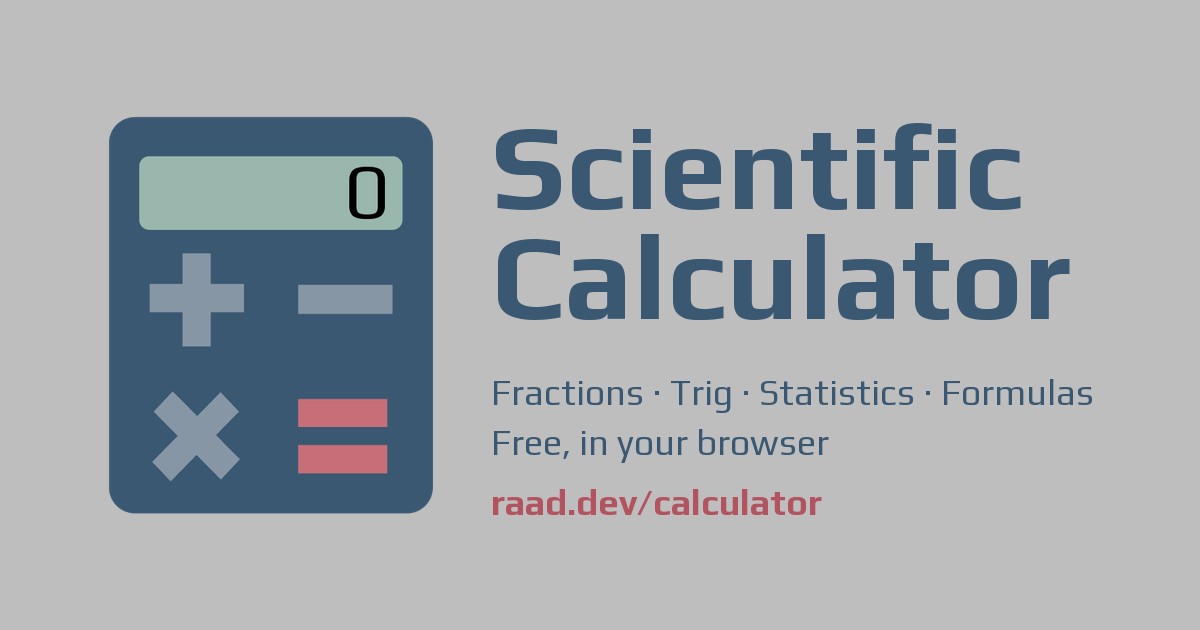
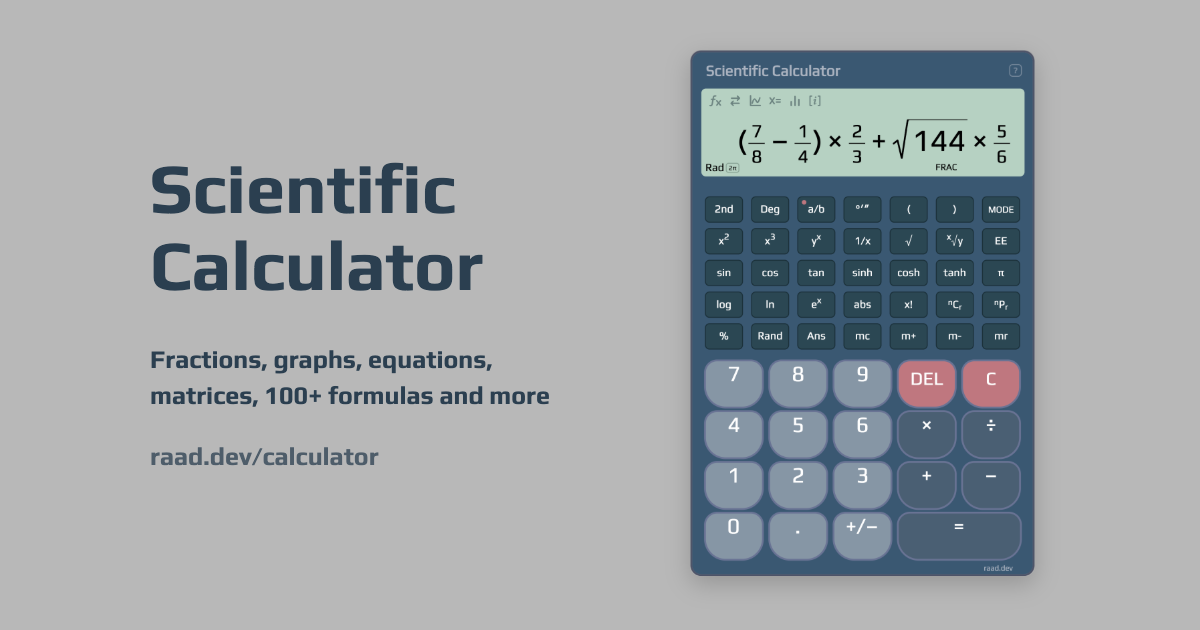
Web: new share image, and search text with every feature
The share image now shows a fraction calculation, in the gray style of
the store images. The title, descriptions, keywords and JSON-LD feature
list cover the graph, solver, matrices, finance and formulas.

diff --git a/web/index.html b/web/index.html
@@ -18,27 +18,27 @@
     <link rel="stylesheet" href="css/style.css">
     <link rel="stylesheet" href="css/options.css">
     <link rel="stylesheet" href="css/site.css">
-    <title>Scientific Calculator Online Free: Trig, Log, Fractions, Formulas</title>
-    <meta name="description" content="A free scientific calculator that works offline: fractions, trigonometry, logarithms, statistics, unit converter, formulas and constants, and a history of past calculations. Nothing leaves your browser.">
+    <title>Scientific Calculator Online Free: Fractions, Graph, Solver, Formulas</title>
+    <meta name="description" content="A free scientific calculator with real fractions, a graph, an equation solver, matrices, statistics, finance, 100+ formulas and a unit converter. Works offline, and nothing leaves your browser.">
     <meta name="robots" content="index, follow, max-image-preview:large, max-snippet:-1">
     <meta name="author" content="Raad Altaie">
-    <meta name="keywords" content="scientific calculator, online calculator, offline calculator, fraction calculator, statistics calculator, unit converter, trigonometry, logarithm, standard deviation">
+    <meta name="keywords" content="scientific calculator, online calculator, offline calculator, fraction calculator, graphing calculator, equation solver, matrix calculator, statistics calculator, loan calculator, finance calculator, unit converter, formulas, trigonometry, logarithm, standard deviation, complex numbers, hex calculator">
     <link rel="canonical" href="https://raad.dev/calculator/">
     <link rel="alternate" type="text/plain" href="https://raad.dev/calculator/llms.txt" title="Summary for AI agents">
     <meta property="og:type" content="website">
     <meta property="og:site_name" content="Scientific Calculator">
     <meta property="og:url" content="https://raad.dev/calculator/">
     <meta property="og:locale" content="en_US">
-    <meta property="og:title" content="Scientific Calculator: free, with fractions and statistics">
-    <meta property="og:description" content="A free scientific calculator that works offline: fractions, trigonometry, logarithms, statistics, unit converter, formulas and constants, and a history of past calculations. Nothing leaves your browser.">
-    <meta property="og:image" content="https://raad.dev/calculator/imgs/og-image.png">
+    <meta property="og:title" content="Scientific Calculator: free, with fractions, graph and solver">
+    <meta property="og:description" content="A free scientific calculator with real fractions, a graph, an equation solver, matrices, statistics, finance, 100+ formulas and a unit converter. Works offline, and nothing leaves your browser.">
+    <meta property="og:image" content="http://127.0.0.1:5500/web/imgs/og-image.png">
     <meta property="og:image:width" content="1200">
     <meta property="og:image:height" content="630">
-    <meta property="og:image:alt" content="Scientific Calculator icon">
+    <meta property="og:image:alt" content="Scientific Calculator with a fraction calculation">
     <meta name="twitter:card" content="summary_large_image">
-    <meta name="twitter:title" content="Scientific Calculator: free, with fractions and statistics">
-    <meta name="twitter:description" content="A free scientific calculator that works offline: fractions, trigonometry, logarithms, statistics, unit converter, formulas and constants, and a history of past calculations. Nothing leaves your browser.">
-    <meta name="twitter:image" content="https://raad.dev/calculator/imgs/og-image.png">
+    <meta name="twitter:title" content="Scientific Calculator: free, with fractions, graph and solver">
+    <meta name="twitter:description" content="A free scientific calculator with real fractions, a graph, an equation solver, matrices, statistics, finance, 100+ formulas and a unit converter. Works offline, and nothing leaves your browser.">
+    <meta name="twitter:image" content="http://127.0.0.1:5500/web/imgs/og-image.png">
     <script type="application/ld+json">
 {
     "@context": "https://schema.org",
@@ -61,7 +61,7 @@
             "url": "https://raad.dev/calculator/",
             "name": "Scientific Calculator",
             "alternateName": "Calculator",
-            "description": "A free scientific calculator that works offline: fractions, trigonometry, logarithms, statistics, unit converter, formulas and constants, and a history of past calculations. Nothing leaves your browser.",
+            "description": "A free scientific calculator with real fractions, a graph, an equation solver, matrices, statistics, finance, 100+ formulas and a unit converter. Works offline, and nothing leaves your browser.",
             "applicationCategory": "UtilitiesApplication",
             "applicationSubCategory": "Calculator",
             "operatingSystem": "Any",
@@ -70,7 +70,7 @@
             "image": "https://raad.dev/calculator/imgs/og-image.png",
             "screenshot": "https://raad.dev/calculator/imgs/og-image.png",
             "inLanguage": "en",
-            "softwareVersion": "2.5.0",
+            "softwareVersion": "2.5.6",
             "author": {
                 "@type": "Person",
                 "name": "Raad Altaie"
@@ -82,14 +82,27 @@
             },
             "featureList": [
                 "Order of operations (PEMDAS) with nested parentheses",
-                "Trigonometry in degrees, radians and gradians",
-                "Logarithms, powers, roots, factorials",
-                "Fraction mode",
+                "Equations shown as written, editable with the arrow keys",
+                "Real fractions while you type, with exact fraction results",
+                "Trigonometry in degrees, radians and gradians, inverse and hyperbolic functions",
+                "Logarithms, powers, roots, factorials, nCr, nPr, mod, gcd and lcm",
+                "Degrees, minutes and seconds",
                 "Fix, Sci and Eng number formats with thousands separators",
-                "Statistics: mean, median, standard deviation",
-                "Unit converter",
-                "Formulas and constants (CODATA 2022)",
-                "History and memory keys",
+                "History of 50 calculations, exported as text or CSV",
+                "Variables A to J, memory keys, Ans, undo and redo",
+                "Graph of up to seven functions with roots, extremes, crossings, slope and tangent",
+                "Sliders, areas, derivatives, inequalities, polar and parametric curves, sequences and best fits",
+                "Equation solver with exact roots, inequalities, polynomials and linear systems",
+                "Calculus: integrals, derivatives, limits, sums, Taylor series and differential equations",
+                "Finance: loans, savings, time value of money, NPV, IRR, APR, bonds and depreciation",
+                "Statistics: mean, median, standard deviation, quartiles, histogram, box plot and regression",
+                "Probability distributions with p-values and confidence intervals",
+                "Matrices up to 10 x 10: determinant, inverse, eigenvalues, LU and QR",
+                "Vectors and complex numbers",
+                "Bases, bits, Base64, hashes, UUIDs and IP subnets",
+                "Prime factors, exact big numbers and repeating decimals",
+                "102 formulas and 59 constants (CODATA 2022)",
+                "Unit converter, date calculations and Unix timestamps",
                 "Works offline as an installable app"
             ]
         }
@@ -107,8 +120,8 @@
 <body>
     <noscript>
         <h1>Scientific Calculator</h1>
-        <p>A free scientific calculator with fractions, trigonometry, logarithms, statistics, a unit converter and a
-            formula list. It needs JavaScript to run; nothing you type leaves your browser.</p>
+        <p>A free scientific calculator with real fractions, a graph, an equation solver, matrices, statistics,
+            finance, 100+ formulas and a unit converter. It needs JavaScript to run; nothing you type leaves your browser.</p>
     </noscript>
     <div class="app">
         <!-- left: the calculator, scaled to fit its pane -->

diff --git a/web/sw.js b/web/sw.js
@@ -1,6 +1,6 @@
 // Offline support: the whole calculator is cached on the first visit.
 // Raise CACHE when the files change, so the old copies are dropped.
-const CACHE = 'calculator-v74';
+const CACHE = 'calculator-v75';
 const FILES = [
     './', 'index.html', 'manifest.webmanifest',
     'css/style.css', 'css/options.css', 'css/site.css',
